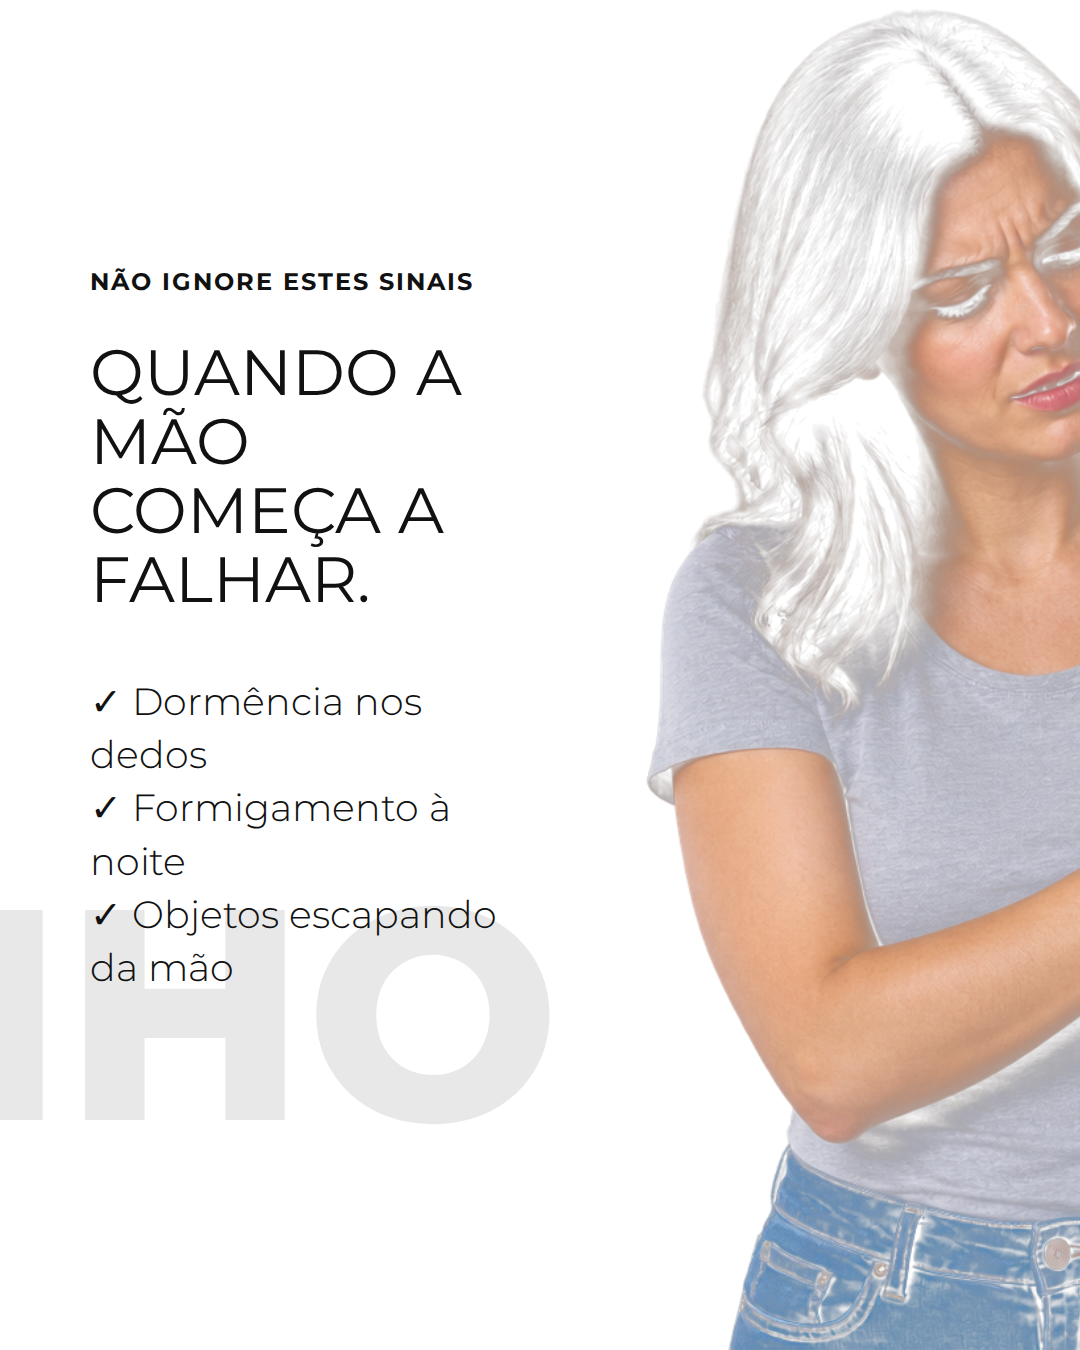
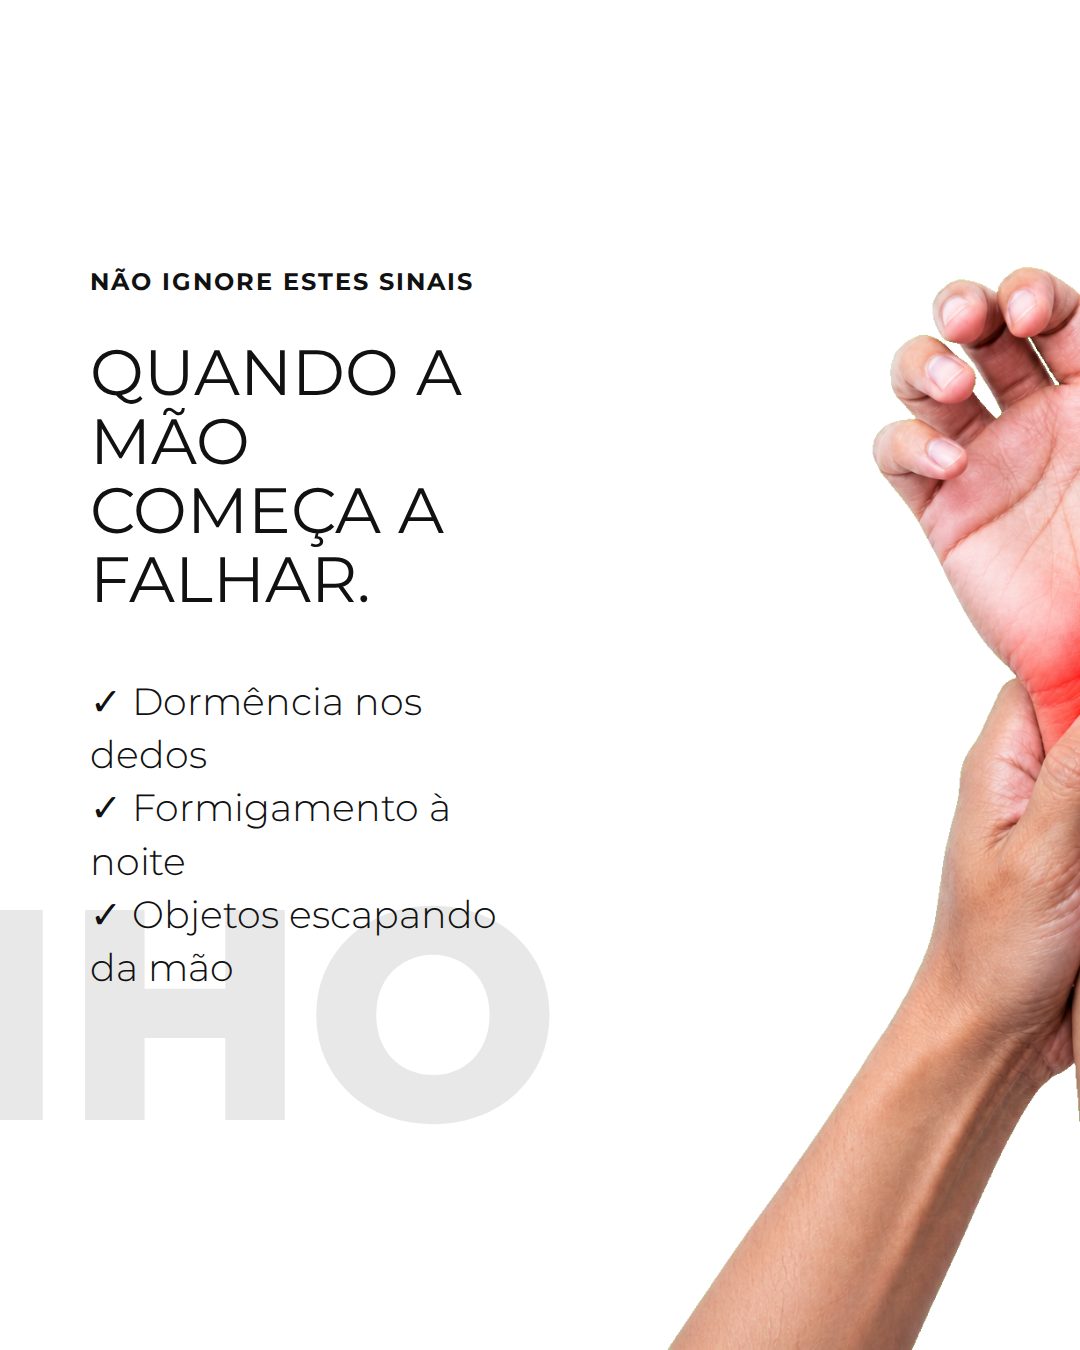
fix: verticalizar travessias clinicas

Changed region(s): [[0.5806, 0.0, 1.0, 1.0]]

diff --git a/packs/laserpro-continuo/certification/cert-lp-v1-carpo-4.md b/packs/laserpro-continuo/certification/cert-lp-v1-carpo-4.md
@@ -19,6 +19,10 @@ Correção pós-certificação: S3 voltou ao fundo branco e sua copy voltou a ti
 assim, apenas a capa permanece invertida e a travessia S2→S3 fica sobre o
 miolo claro contínuo.
 
+Correção de travessia: o asset passou a ser PNG RGBA retrato (1024×1536), com
+apenas mãos e antebraços verticais e o punho em vermelho translúcido; não há
+pessoa inteira, rosto, roupa ou cenário.
+
 ## Evidências visuais
 
 - `cert-lp-v1-carpo-4-strip.png`
